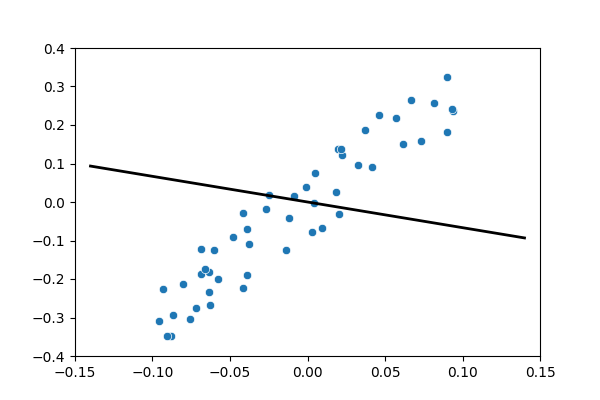
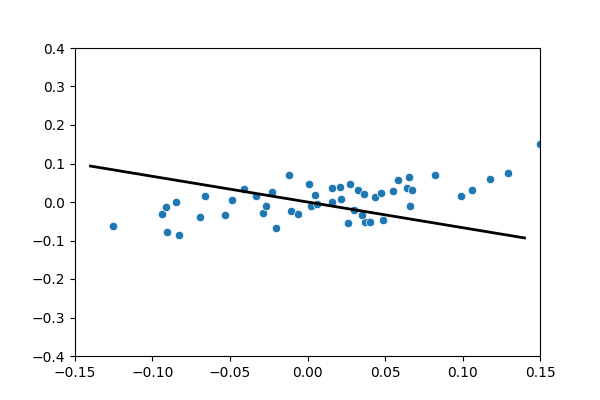
Fixes to previous figures and new figure 7.6.19

diff --git a/CH7_HW_7.6.19_no_fit.py b/CH7_HW_7.6.19_no_fit.py
@@ -6,28 +6,35 @@ import seaborn as sns
 np.random.seed(42)
 
 n_points = 50
-correlation = 0.7
+correlation = -0.9
 
 mean = [0, 0]
 cov = [[1, correlation], [correlation, 1]]
 data = np.random.multivariate_normal(mean, cov, n_points)
 
 x, y = data[:, 0], data[:, 1]
-x, y = x / x.max() * 0.15, y / y.max() * 0.15
+x, y = x / x.max(), y / y.max()
 
 # Plot
 plt.figure(figsize=(6, 4))
 sns.scatterplot(x=x, y=y)
 
 # Add regression line
-slope = -0.1 / 0.15
+slope = -1 / 3
 intercept = 0
-x_reg = np.linspace(-0.14, 0.14, 2)
+x_reg = np.linspace(-1.4, 1.4, 2)
 y_reg = slope * x_reg + intercept
 plt.plot(x_reg, y_reg, color="k", linewidth=2)
 
-plt.xlim(-0.15, 0.15)
-plt.ylim(-0.4, 0.4)
+plt.xlim(-1.5, 1.5)
+plt.ylim(-1.5, 1.5)
 
-plt.savefig("plots/CH7_7.4.6_no_fit.png")
+plt.xlabel("Portfolio Return")
+plt.ylabel("Stock Return")
+
+plt.grid(True)
+
+plt.tick_params(left=False, bottom=False, labelleft=False, labelbottom=False)
+
+plt.savefig("plots/CH7_HW_7.6.19_no_fit.png")
 plt.show()

diff --git a/CH7_HW_7.6.2_ge_snp.py b/CH7_HW_7.6.2_ge_snp.py
@@ -18,6 +18,7 @@ sns.scatterplot(x=x, y=y)
 plt.xlabel("Return on S&P500")
 plt.ylabel("Return on GE")
 
-plt.savefig("plots/CH7_HW_7.6.2.png")
 plt.tight_layout()
+
+plt.savefig("plots/CH7_HW_7.6.2_ge_snp.png")
 plt.show()
